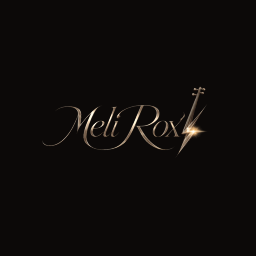
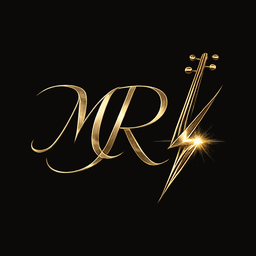
Add all remaining performance videos + playable gallery
- Experiences: Bodas, Eventos privados now video; all 5 slots on video
- En Vivo: Voz, Violin, Banda/DJs, Colaboraciones all on video
- Gallery: 10 videos as playable tiles (poster -> lightbox w/ sound)
- YouTube card image swapped to unused live shot
- Meli/Rox slider repositioned (desktop); MR gold favicon on dark bg

Changed region(s): [[0.125, 0.1875, 0.875, 0.7812], [0.8438, 0.3438, 0.875, 0.375], [0.1562, 0.3438, 0.1875, 0.375]]

diff --git a/app/page.tsx b/app/page.tsx
@@ -193,7 +193,8 @@ const CATS: Cat[] = [
     es: "Bodas",
     en: "Weddings",
     img: F + "IMG_1922.JPG",
-    pos: "50% 30%",
+    vidSrc: "/Vids/bodas.mp4",
+    pos: "50% 28%",
     tone: "linear-gradient(180deg, #0b0a08, #171008 50%, #0b0a08)",
     tEs: "Música que acompaña los momentos que nunca se repiten.",
     tEn: "Music for the moments that never repeat.",
@@ -231,7 +232,8 @@ const CATS: Cat[] = [
     es: "Eventos privados",
     en: "Private events",
     img: F + "IMG_6812.JPG",
-    pos: "50% 15%",
+    vidSrc: "/Vids/privados.mp4",
+    pos: "50% 33%",
     tone: "linear-gradient(180deg, #0b0a08, #12100c 50%, #0b0a08)",
     tEs: "Música diseñada a la medida del momento.",
     tEn: "Music designed around the moment.",
@@ -249,7 +251,8 @@ const CATS: Cat[] = [
     es: "Eventos corporativos",
     en: "Corporate events",
     img: U + "corporate-5250.jpg",
-    pos: "50% 40%",
+    vidSrc: "/Vids/corporate.mp4",
+    pos: "50% 47%",
     tone: "linear-gradient(180deg, #0b0a08, #100f0c 50%, #0b0a08)",
     tEs: "Impacto visual con producción profesional.",
     tEn: "Visual impact with professional production.",
@@ -267,7 +270,8 @@ const CATS: Cat[] = [
     es: "Conciertos y festivales",
     en: "Concerts & festivals",
     img: F + "IMG_2501.jpg",
-    pos: "50% 25%",
+    vidSrc: "/Vids/conciertos.mp4",
+    pos: "50% 55%",
     vid: true,
     tone: "linear-gradient(180deg, #0b0a08, #0e1010 50%, #0b0a08)",
     tEs: "Música original para grandes escenarios.",
@@ -283,13 +287,14 @@ const CATS: Cat[] = [
   },
 ];
 
-function liveModeDefs(isEn: boolean) {
+function liveModeDefs(isEn: boolean): { id: string; name: string; img: string; pos: string; cap: string; vidSrc?: string }[] {
   return [
     {
       id: "voz",
       name: isEn ? "Live vocals" : "Voz en vivo",
       img: F + "IMG_2482.jpg",
-      pos: "50% 18%",
+      vidSrc: "/Vids/voz.mp4",
+      pos: "50% 30%",
       cap: isEn
         ? "A voice that fills the stage — festivals, events and full productions."
         : "Una voz que llena el escenario — festivales, eventos y producciones completas.",
@@ -298,19 +303,31 @@ function liveModeDefs(isEn: boolean) {
       id: "violin",
       name: isEn ? "Electric violin" : "Violín eléctrico",
       img: F + "IMG_2501.jpg",
-      pos: "50% 22%",
+      vidSrc: "/Vids/violin.mp4",
+      pos: "50% 28%",
       cap: isEn
         ? "Classical expression inside modern, electronic energy."
         : "La expresión clásica dentro de la energía electrónica moderna.",
     },
     {
       id: "banda",
-      name: isEn ? "Band, DJs & collaborations" : "Banda, DJs y colaboraciones",
+      name: isEn ? "Band & DJs" : "Banda y DJs",
       img: F + "party.jpg",
-      pos: "50% 30%",
+      vidSrc: "/Vids/paradise.mp4",
+      pos: "50% 42%",
       cap: isEn
-        ? "Formats with live musicians, DJs and guest artists."
-        : "Formatos con músicos en vivo, DJs y artistas invitados.",
+        ? "Live musicians and DJs on stage."
+        : "Músicos en vivo y DJs en tarima.",
+    },
+    {
+      id: "colab",
+      name: isEn ? "Collaborations" : "Colaboraciones",
+      img: F + "party.jpg",
+      vidSrc: "/Vids/colab.mp4",
+      pos: "50% 40%",
+      cap: isEn
+        ? "Sessions with DJs, producers and guest artists."
+        : "Sesiones con DJs, productores y artistas invitados.",
     },
   ];
 }
@@ -425,25 +442,37 @@ type Gal = {
   en: string;
   h: number;
   vid?: string;
-  slot?: string;
+  videoSrc?: string;
 };
 
+const P = "/Vids/posters/";
+
 const GAL: Gal[] = [
-  { src: F + "IMG_2471.jpg", cat: "live", es: "Festival", en: "Festival", h: 440, vid: "00:18", slot: "galeria-envivo-festival" },
+  // Videos (poster = src, plays in lightbox)
+  { src: P + "conciertos.jpg", videoSrc: "/Vids/conciertos.mp4", cat: "live", es: "Festival", en: "Festival", h: 440, vid: "0:35" },
+  { src: P + "voz.jpg", videoSrc: "/Vids/voz.mp4", cat: "live", es: "Voz en vivo", en: "Live vocals", h: 380, vid: "0:47" },
+  { src: P + "violin.jpg", videoSrc: "/Vids/violin.mp4", cat: "live", es: "Violín eléctrico", en: "Electric violin", h: 340, vid: "0:20" },
+  { src: P + "bodas.jpg", videoSrc: "/Vids/bodas.mp4", cat: "bodas", es: "Bodas", en: "Weddings", h: 400, vid: "0:30" },
+  { src: P + "corporate.jpg", videoSrc: "/Vids/corporate.mp4", cat: "ev", es: "Corporativo", en: "Corporate", h: 380, vid: "0:34" },
+  { src: P + "quince.jpg", videoSrc: "/Vids/quince.mp4", cat: "ev", es: "Fiesta de 15", en: "Quinceañera", h: 360, vid: "0:24" },
+  { src: P + "privados.jpg", videoSrc: "/Vids/privados.mp4", cat: "ev", es: "Evento privado", en: "Private event", h: 400, vid: "0:30" },
+  { src: P + "paradise.jpg", videoSrc: "/Vids/paradise.mp4", cat: "live", es: "En vivo", en: "Live", h: 340, vid: "0:28" },
+  { src: P + "banda.jpg", videoSrc: "/Vids/banda.mp4", cat: "live", es: "Banda", en: "Band", h: 360, vid: "0:35" },
+  { src: P + "colab.jpg", videoSrc: "/Vids/colab.mp4", cat: "live", es: "Colaboración", en: "Collaboration", h: 300, vid: "0:38" },
+  // Photos
   { src: F + "wedding.jpg", cat: "bodas", es: "Bodas", en: "Weddings", h: 400 },
   { src: F + "DSC08415.jpg", cat: "live", es: "En vivo", en: "Live", h: 340 },
   { src: F + "DVR_0449.jpg", cat: "ses", es: "Sesión", en: "Session", h: 380 },
   { src: F + "IMG_2482.jpg", cat: "live", es: "En vivo", en: "Live", h: 300 },
-  { src: F + "Meli%20Rox%20wedding.jpeg", cat: "bodas", es: "Bodas", en: "Weddings", h: 360, vid: "00:20", slot: "galeria-boda-ceremonia" },
   { src: U + "IMG_5220.JPG.jpeg", cat: "ev", es: "Eventos", en: "Events", h: 420 },
   { src: F + "DVR_0367.jpg", cat: "ses", es: "Sesión", en: "Session", h: 300 },
   { src: F + "IMG_1922.JPG", cat: "bodas", es: "Bodas", en: "Weddings", h: 380 },
-  { src: F + "IMG_2501.jpg", cat: "live", es: "Festival", en: "Festival", h: 340, vid: "00:22", slot: "galeria-violin-festival" },
+  { src: F + "IMG_2501.jpg", cat: "live", es: "Festival", en: "Festival", h: 340 },
   { src: F + "DVR_0490.jpg", cat: "ses", es: "Sesión", en: "Session", h: 320 },
   { src: F + "wedding1.jpg", cat: "bodas", es: "Bodas", en: "Weddings", h: 360 },
   { src: F + "IMG_6812.JPG", cat: "ev", es: "Eventos", en: "Events", h: 300 },
   { src: F + "DSC08345.jpg", cat: "ses", es: "Sesión", en: "Session", h: 400 },
-  { src: F + "party.jpg", cat: "live", es: "En vivo", en: "Live", h: 320, vid: "00:12", slot: "galeria-banda-show" },
+  { src: F + "party.jpg", cat: "live", es: "En vivo", en: "Live", h: 320 },
   { src: F + "Meli%20violin%20(1).jpeg", cat: "live", es: "Club", en: "Club", h: 340 },
   { src: F + "DVR_0523.jpg", cat: "ses", es: "Sesión", en: "Session", h: 300 },
 ];
@@ -467,7 +496,7 @@ export default function Home() {
   const [prog, setProg] = useState(0);
   const [filter, setFilter] = useState("all");
   const [openRel, setOpenRel] = useState<string | null>(null);
-  const [lb, setLb] = useState<{ src: string; alt: string } | null>(null);
+  const [lb, setLb] = useState<{ src?: string; videoSrc?: string; alt: string } | null>(null);
   const [liveMode, setLiveMode] = useState("voz");
   const [vw, setVw] = useState(1200);
   const [menuOpen, setMenuOpen] = useState(false);
@@ -804,10 +833,10 @@ export default function Home() {
           </div>
           <div style={{ position: "relative", height: "clamp(400px, 64vh, 660px)", borderRadius: "4px", overflow: "hidden", border: "1px solid rgba(212,180,122,.18)" }}>
             {/* eslint-disable-next-line @next/next/no-img-element */}
-            <img src={F + "wedding.jpg"} alt="Meli — cálida, íntima, emocional" style={{ position: "absolute", inset: 0, width: "100%", height: "100%", objectFit: "cover", objectPosition: "50% 20%", filter: "sepia(.26) saturate(.82) brightness(.96)", transform: `scale(${1 + mix * 0.0006})`, transition: "transform .6s" }} />
+            <img src={F + "wedding.jpg"} alt="Meli — cálida, íntima, emocional" style={{ position: "absolute", inset: 0, width: "100%", height: "100%", objectFit: "cover", objectPosition: isMobile ? "50% 20%" : "50% 30%", filter: "sepia(.26) saturate(.82) brightness(.96)", transform: `scale(${1 + mix * 0.0006})`, transition: "transform .6s" }} />
             <div style={{ position: "absolute", inset: 0, opacity: mix / 100, transition: "opacity .7s ease" }}>
               {/* eslint-disable-next-line @next/next/no-img-element */}
-              <img src={F + "DSC08415.jpg"} alt="Rox — eléctrica, audaz, imparable" style={{ position: "absolute", inset: 0, width: "100%", height: "100%", objectFit: "cover", objectPosition: "50% 14%", filter: "saturate(1.08) brightness(.95) contrast(1.06)" }} />
+              <img src={F + "DSC08415.jpg"} alt="Rox — eléctrica, audaz, imparable" style={{ position: "absolute", inset: 0, width: "100%", height: "100%", objectFit: "cover", objectPosition: isMobile ? "50% 14%" : "50% 24%", filter: "saturate(1.08) brightness(.95) contrast(1.06)" }} />
             </div>
             <div style={{ position: "absolute", inset: 0, background: "linear-gradient(0deg, rgba(11,10,8,.55), transparent 40%)", pointerEvents: "none" }} />
             <div style={{ position: "absolute", left: 0, right: 0, bottom: "20px", textAlign: "center", pointerEvents: "none" }}>
@@ -847,12 +876,20 @@ export default function Home() {
             ))}
           </div>
           <div style={{ position: "relative", marginTop: "18px", borderRadius: "4px", overflow: "hidden", border: "1px solid rgba(212,180,122,.2)", height: "clamp(320px, 52vw, 620px)" }}>
-            {/* eslint-disable-next-line @next/next/no-img-element */}
-            <img src={activeLive.img} alt={activeLive.cap} style={{ position: "absolute", inset: 0, width: "100%", height: "100%", objectFit: "cover", objectPosition: activeLive.pos, filter: "saturate(.95) brightness(.9)" }} />
-            <div style={{ position: "absolute", inset: 0, background: "linear-gradient(180deg, transparent 55%, rgba(11,10,8,.85))" }} />
-            <div style={{ position: "absolute", left: "50%", top: "50%", transform: "translate(-50%, -50%)", width: "86px", height: "86px", borderRadius: "50%", border: "1px solid rgba(232,207,158,.75)", background: "rgba(8,7,6,.5)", backdropFilter: "blur(4px)", display: "flex", alignItems: "center", justifyContent: "center", color: "#ecd9ac", pointerEvents: "none" }}><PlayIcon size={28} color="#ecd9ac" /></div>
-            <div style={{ position: "absolute", right: "16px", bottom: "18px", fontFamily: "'IBM Plex Mono', monospace", fontSize: "11px", letterSpacing: ".16em", textTransform: "uppercase", color: "#eee3c2", background: "rgba(8,7,6,.6)", backdropFilter: "blur(4px)", padding: "7px 11px", borderRadius: "3px" }}>00:18</div>
-            <div style={{ position: "absolute", left: "22px", right: "22px", bottom: "20px" }}>
+            {activeLive.vidSrc ? (
+              <CategoryVideo key={liveMode} src={activeLive.vidSrc} pos={activeLive.pos} />
+            ) : (
+              /* eslint-disable-next-line @next/next/no-img-element */
+              <img src={activeLive.img} alt={activeLive.cap} style={{ position: "absolute", inset: 0, width: "100%", height: "100%", objectFit: "cover", objectPosition: activeLive.pos, filter: "saturate(.95) brightness(.9)" }} />
+            )}
+            <div style={{ position: "absolute", inset: 0, background: "linear-gradient(180deg, transparent 55%, rgba(11,10,8,.85))", pointerEvents: "none" }} />
+            {!activeLive.vidSrc && (
+              <>
+                <div style={{ position: "absolute", left: "50%", top: "50%", transform: "translate(-50%, -50%)", width: "86px", height: "86px", borderRadius: "50%", border: "1px solid rgba(232,207,158,.75)", background: "rgba(8,7,6,.5)", backdropFilter: "blur(4px)", display: "flex", alignItems: "center", justifyContent: "center", color: "#ecd9ac", pointerEvents: "none" }}><PlayIcon size={28} color="#ecd9ac" /></div>
+                <div style={{ position: "absolute", right: "16px", bottom: "18px", fontFamily: "'IBM Plex Mono', monospace", fontSize: "11px", letterSpacing: ".16em", textTransform: "uppercase", color: "#eee3c2", background: "rgba(8,7,6,.6)", backdropFilter: "blur(4px)", padding: "7px 11px", borderRadius: "3px" }}>00:18</div>
+              </>
+            )}
+            <div style={{ position: "absolute", left: "22px", right: "22px", bottom: "20px", pointerEvents: "none" }}>
               <div style={{ fontFamily: "'IBM Plex Mono', monospace", fontSize: "11.5px", letterSpacing: ".24em", textTransform: "uppercase", color: "#d9c9a4" }}>{activeLive.name}</div>
               <div style={{ marginTop: "8px", fontFamily: "'Cormorant Garamond', serif", fontSize: "clamp(22px, 3vw, 32px)", color: "#f7f1e0", lineHeight: 1.2, textShadow: "0 1px 12px rgba(0,0,0,.8)" }}>{activeLive.cap}</div>
             </div>
@@ -1102,7 +1139,7 @@ export default function Home() {
               const alt = "Meli Rox — " + t(g.es, g.en);
               const h = isMobile ? Math.round(g.h * 0.72) : g.h;
               return (
-                <figure key={g.src} onClick={() => setLb({ src: g.src, alt })} style={{ margin: 0, position: "relative", flex: "0 0 auto", overflow: "hidden", borderRadius: "3px", border: "1px solid rgba(212,180,122,.16)", cursor: "zoom-in", scrollSnapAlign: "start" }}>
+                <figure key={g.src} onClick={() => setLb(g.videoSrc ? { videoSrc: g.videoSrc, alt } : { src: g.src, alt })} style={{ margin: 0, position: "relative", flex: "0 0 auto", overflow: "hidden", borderRadius: "3px", border: "1px solid rgba(212,180,122,.16)", cursor: g.videoSrc ? "pointer" : "zoom-in", scrollSnapAlign: "start" }}>
                   {/* eslint-disable-next-line @next/next/no-img-element */}
                   <img src={g.src} alt={alt} loading="lazy" style={{ display: "block", height: h + "px", width: "auto", maxWidth: "80vw", objectFit: "cover", filter: "saturate(.88) brightness(.9)", transition: "transform .8s, filter .5s" }} />
                   {g.vid && (
@@ -1146,7 +1183,7 @@ export default function Home() {
           <div style={{ marginTop: "clamp(24px, 3.4vw, 36px)", display: "grid", gridTemplateColumns: "repeat(auto-fit, minmax(240px, 1fr))", gap: "14px" }}>
             {[
               { href: "https://open.spotify.com/artist/0Me2xPijWmN9C9P2Vs5IGP", img: F + "DVR_0449.jpg", pos: "50% 30%", label: "Spotify", title: t("Escucha su música", "Hear her music"), handle: "Meli Rox →" },
-              { href: "https://www.youtube.com/@meliroxmusic", img: F + "IMG_2482.jpg", pos: "50% 15%", label: "YouTube", title: t("Videos y presentaciones", "Videos & performances"), handle: "@meliroxmusic →" },
+              { href: "https://www.youtube.com/@meliroxmusic", img: F + "IMG_2513.jpg", pos: "50% 18%", label: "YouTube", title: t("Videos y presentaciones", "Videos & performances"), handle: "@meliroxmusic →" },
             ].map((s) => (
               <a key={s.label} href={s.href} target="_blank" style={{ position: "relative", display: "block", textDecoration: "none", borderRadius: "4px", overflow: "hidden", border: "1px solid rgba(212,180,122,.22)", height: "200px" }}>
                 {/* eslint-disable-next-line @next/next/no-img-element */}
@@ -1200,8 +1237,12 @@ export default function Home() {
       {/* LIGHTBOX */}
       {lb && (
         <div onClick={() => setLb(null)} style={{ position: "fixed", inset: 0, zIndex: 100, background: "rgba(8,7,6,.96)", display: "flex", alignItems: "center", justifyContent: "center", padding: "clamp(16px, 4vw, 48px)", cursor: "zoom-out" }}>
-          {/* eslint-disable-next-line @next/next/no-img-element */}
-          <img src={lb.src} alt={lb.alt} style={{ maxWidth: "100%", maxHeight: "92vh", borderRadius: "4px", border: "1px solid rgba(212,180,122,.3)", boxShadow: "0 30px 90px rgba(0,0,0,.7)" }} />
+          {lb.videoSrc ? (
+            <video src={lb.videoSrc} controls autoPlay playsInline onClick={(e) => e.stopPropagation()} style={{ maxWidth: "100%", maxHeight: "92vh", borderRadius: "4px", border: "1px solid rgba(212,180,122,.3)", boxShadow: "0 30px 90px rgba(0,0,0,.7)", background: "#000" }} />
+          ) : (
+            /* eslint-disable-next-line @next/next/no-img-element */
+            <img src={lb.src} alt={lb.alt} style={{ maxWidth: "100%", maxHeight: "92vh", borderRadius: "4px", border: "1px solid rgba(212,180,122,.3)", boxShadow: "0 30px 90px rgba(0,0,0,.7)" }} />
+          )}
           <button onClick={() => setLb(null)} aria-label="Cerrar" style={{ position: "absolute", top: "18px", right: "22px", width: "46px", height: "46px", borderRadius: "50%", background: "rgba(212,180,122,.12)", border: "1px solid rgba(212,180,122,.4)", color: "#ecd9ac", fontSize: "20px", cursor: "pointer" }}>×</button>
         </div>
       )}